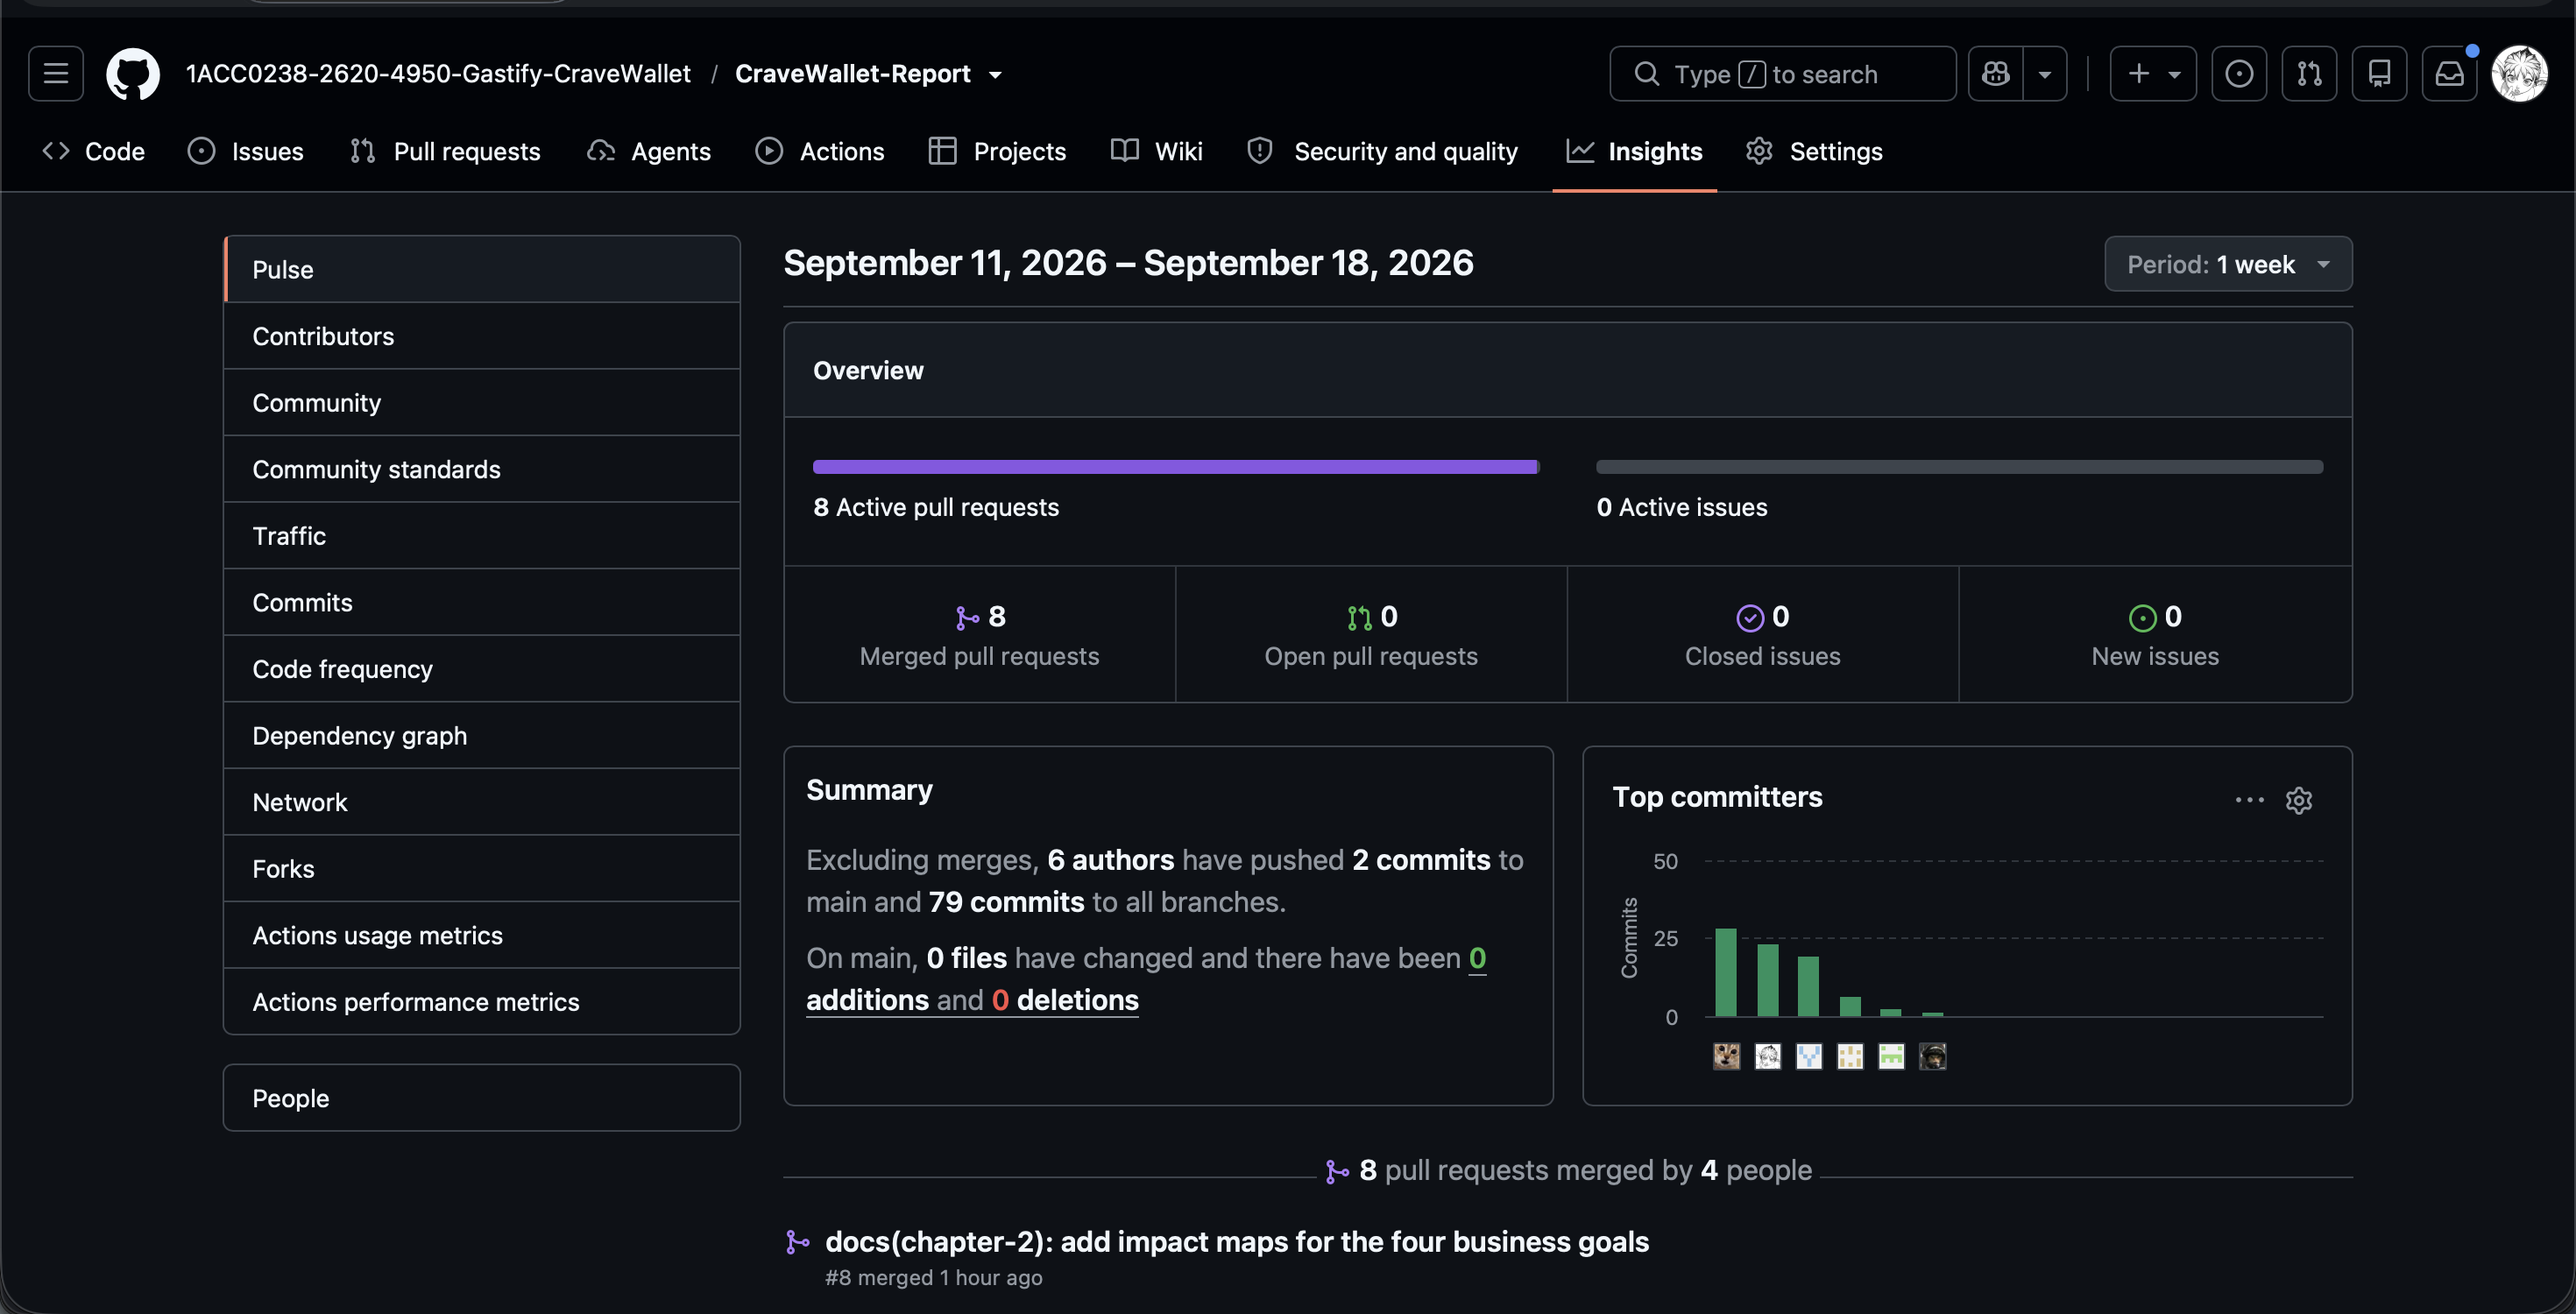
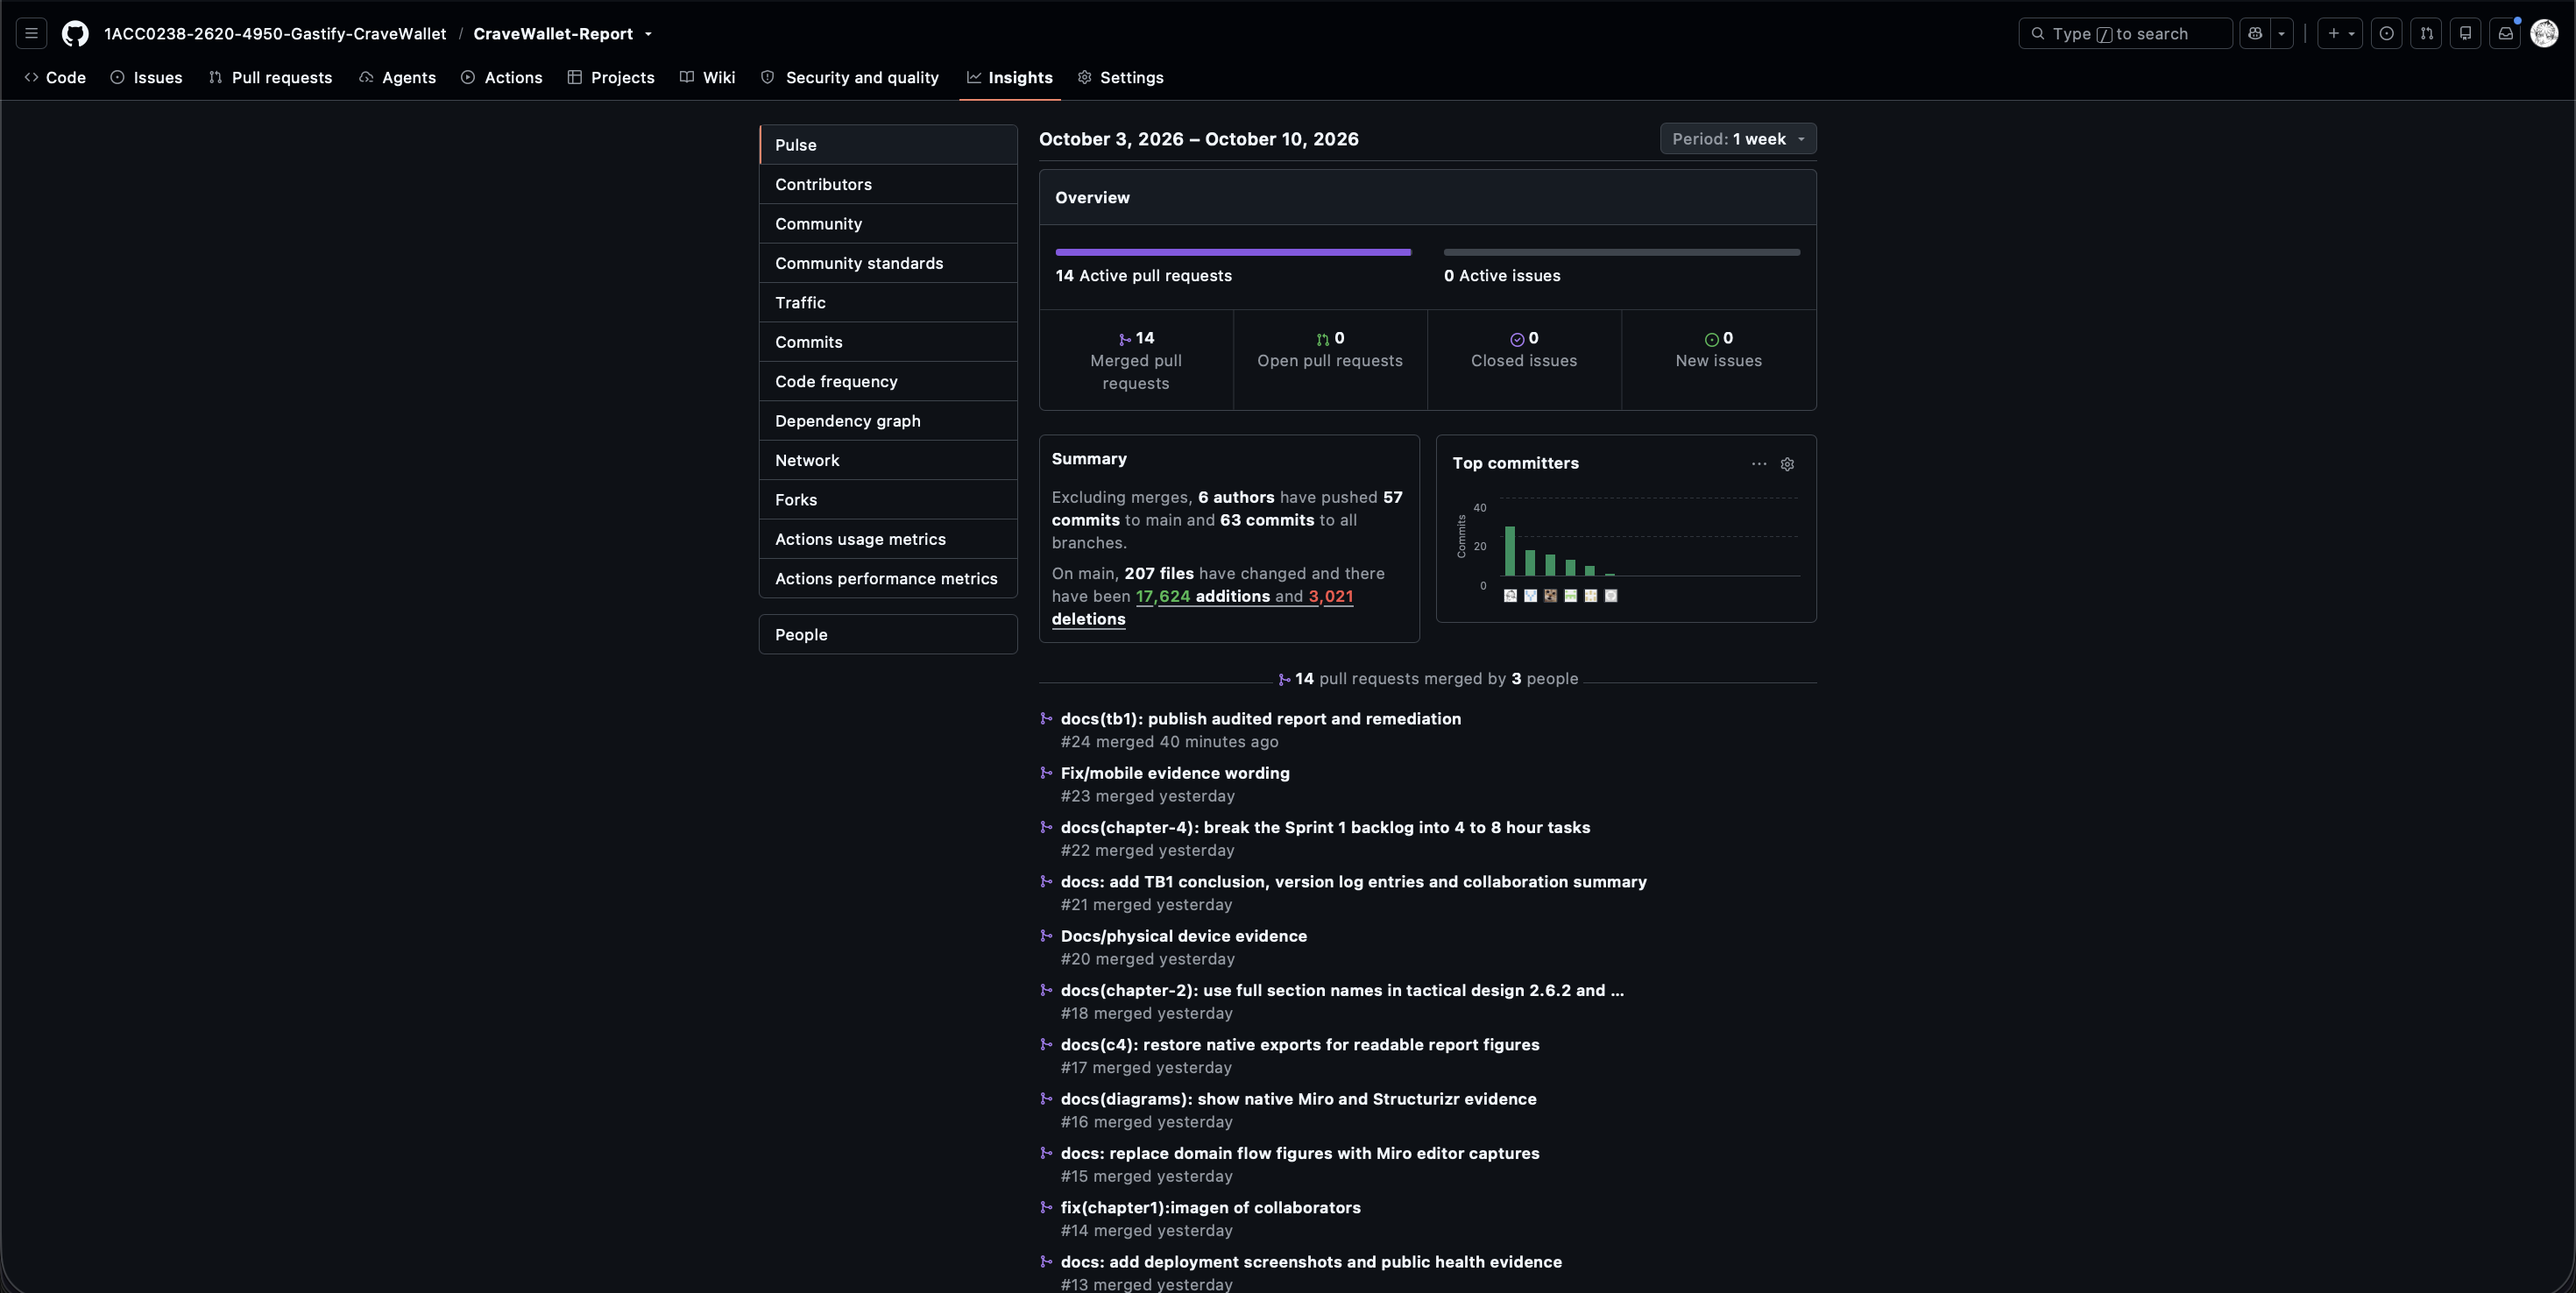
docs: portada de octubre y Collaboration Insights actualizado
- La carátula indica octubre de 2026.
- Reemplaza la captura de Collaboration Insights por el Pulse del 3 al 10 de
  octubre de 2026 y ajusta el texto que la presenta.

diff --git a/config/cover.tex b/config/cover.tex
@@ -60,7 +60,7 @@
 \vspace{1.8em}
 
 {\fontsize{12}{15}\selectfont\bfseries Período 202620\par}
-{\fontsize{12}{15}\selectfont\bfseries Septiembre 2026\par}
+{\fontsize{12}{15}\selectfont\bfseries Octubre 2026\par}
 
 \vfill
 \end{titlepage}

diff --git a/README.md b/README.md
@@ -24,7 +24,7 @@ La tabla 1 registra las versiones del informe, su fecha, su autor y los cambios 
 
 # Project Report Collaboration Insights
 
-La figura 1 muestra la actividad de los integrantes en el repositorio del informe, como evidencia del trabajo colaborativo.
+La figura 1 muestra el resumen de actividad (Pulse) del repositorio del informe entre el 3 y el 10 de octubre de 2026: 14 pull requests integrados y 63 commits de 6 autores, como evidencia del trabajo colaborativo.
 
 ![Collaboration Insights — CraveWallet](docs/images/collaboration_insights.png)
 
